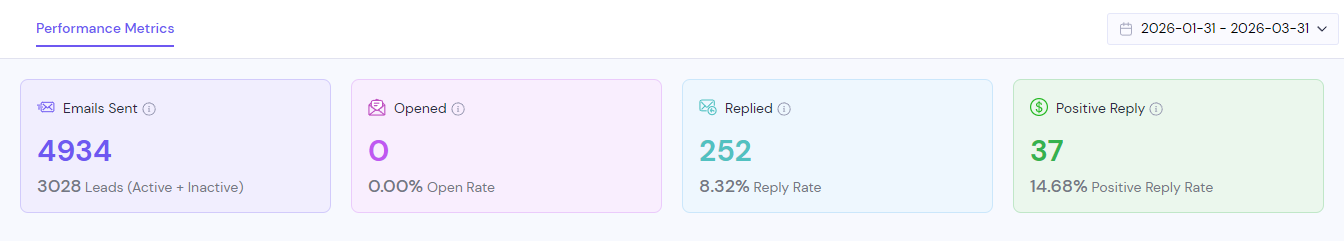
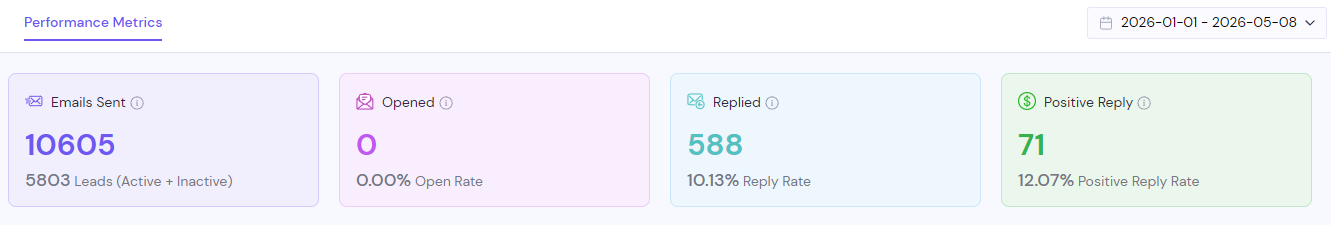
refactored copy

diff --git a/src/components/Advantage.jsx b/src/components/Advantage.jsx
@@ -29,7 +29,7 @@ const ProspectScorer = () => {
       <div className="flex items-center gap-2 mb-2">
         <span className="w-1.5 h-1.5 rounded-full bg-[#5b8dee] animate-pulse"></span>
         <span className="text-[10px] font-mono text-muted tracking-wider uppercase">
-          AI Scoring
+          Scoring
         </span>
       </div>
 
@@ -63,76 +63,52 @@ const ProspectScorer = () => {
   );
 };
 
-// Card 2 — Copywriting: typewriter with variable highlights
+// Card 2 — Copywriting: static copy, only variable slots cycle through real values
 const CopyTypewriter = () => {
-  const lines = [
-    { text: "Hey {first_name}, saw that {company} recently ", variable: false },
-    { text: "expanded into {market}", variable: true },
-    { text: " — we help teams like yours book", variable: false },
-    { text: " {value_prop}", variable: true },
-    { text: " consistently.", variable: false },
-  ];
-
-  const fullText =
-    "Hey {first_name}, saw that {company} recently expanded into {market} — we help teams like yours book {value_prop} consistently.";
-  const [displayed, setDisplayed] = useState("");
-  const [typing, setTyping] = useState(true);
+  const variables = {
+    first_name: ["Sarah", "James", "Lena", "Marcus"],
+    company: ["Notion", "Stripe", "Linear", "Vercel"],
+    trigger: ["hiring 3 AEs", "expanding to EU", "just raised Series B", "rebranding"],
+  };
+  const [idx, setIdx] = useState(0);
 
   useEffect(() => {
-    let timeout;
-    if (typing) {
-      if (displayed.length < fullText.length) {
-        timeout = setTimeout(
-          () => setDisplayed(fullText.slice(0, displayed.length + 1)),
-          35 + Math.random() * 30,
-        );
-      } else {
-        timeout = setTimeout(() => setTyping(false), 2500);
-      }
-    } else {
-      if (displayed.length > 0) {
-        timeout = setTimeout(() => setDisplayed(displayed.slice(0, -1)), 12);
-      } else {
-        setTyping(true);
-      }
-    }
-    return () => clearTimeout(timeout);
-  }, [displayed, typing]);
-
-  // Highlight variables in the displayed text
-  const renderHighlighted = () => {
-    const parts = displayed.split(/(\{[^}]+\})/g);
-    return parts.map((part, i) =>
-      /^\{[^}]+\}$/.test(part) ? (
-        <span key={i} className="text-[#5b8dee] bg-[#14349D]/20 rounded px-0.5">
-          {part}
-        </span>
-      ) : (
-        <span key={i}>{part}</span>
-      ),
+    const t = setInterval(
+      () => setIdx((p) => (p + 1) % variables.first_name.length),
+      2200,
     );
-  };
+    return () => clearInterval(t);
+  }, []);
+
+  const Var = ({ name }) => (
+    <span
+      key={`${name}-${idx}`}
+      className="text-[#5b8dee] bg-[#14349D]/20 rounded px-0.5 transition-all duration-300"
+    >
+      {variables[name][idx]}
+    </span>
+  );
 
   return (
     <div className="h-48 w-full bg-surface2 rounded-xl border border-borderLight p-5 flex flex-col overflow-hidden">
       <div className="flex items-center gap-2 mb-3">
-        <span className="w-1.5 h-1.5 rounded-full bg-foreground animate-pulse"></span>
+        <span className="w-1.5 h-1.5 rounded-full bg-[#5b8dee] animate-pulse"></span>
         <span className="text-[10px] font-mono text-muted tracking-wider uppercase">
           Live Copy
         </span>
       </div>
-      <p className="font-mono text-xs text-foreground leading-relaxed flex-1">
-        <span className="text-muted mr-1">›</span>
-        {renderHighlighted()}
-        <span className="inline-block w-1.5 h-3 bg-foreground ml-0.5 animate-pulse align-middle"></span>
+      <p className="text-xs text-foreground leading-relaxed flex-1">
+        Hey <Var name="first_name" />, noticed{" "}
+        <Var name="company" /> is{" "}
+        <Var name="trigger" /> — thought it might be a good time to chat about adding qualified meetings to the pipeline. Worth a quick call?
       </p>
-      <div className="flex gap-2 mt-3 flex-wrap">
-        {["{first_name}", "{company}", "{market}", "{value_prop}"].map((v) => (
+      <div className="flex gap-2 mt-3 flex-wrap border-t border-borderLight pt-3">
+        {["first_name", "company", "trigger"].map((v) => (
           <span
             key={v}
             className="text-[9px] font-mono px-1.5 py-0.5 rounded bg-[#14349D]/20 border border-[#14349D]/30 text-[#5b8dee]"
           >
-            {v}
+            {`{${v}}`}
           </span>
         ))}
       </div>
@@ -167,7 +143,9 @@ const DeliverabilityMonitor = () => {
             Delivery Monitor
           </span>
         </div>
-        <span className="text-[10px] font-mono text-green-400">98.4% inbox</span>
+        <span className="text-[10px] font-mono text-green-400">
+          98.4% inbox
+        </span>
       </div>
 
       <div className="flex-1 flex flex-col gap-2">
@@ -196,7 +174,9 @@ const DeliverabilityMonitor = () => {
         <span className="text-[10px] font-mono text-muted">
           10 domains · 100 inboxes
         </span>
-        <span className="text-[10px] font-mono text-[#5b8dee]">2,000 / day</span>
+        <span className="text-[10px] font-mono text-[#5b8dee]">
+          2,000 / day
+        </span>
       </div>
     </div>
   );
@@ -226,23 +206,23 @@ const Advantage = () => {
   const cards = [
     {
       icon: <Database size={20} className="text-foreground" />,
-      title: "List Building",
+      title: "Prospects That Fit",
       description:
-        "Our system scores every prospect based on your ideal customer profile and make sure they are the right fit before a single message is sent.",
+        "We score every prospect based on your ideal customer profile and make sure they are the right fit before a single message is sent.",
       widget: <ProspectScorer />,
     },
     {
       icon: <PenLine size={20} className="text-foreground" />,
-      title: "Copywriting",
+      title: "Copy That Feels Genuine",
       description:
-        "We use AI-filled variables in our copy that make the messaging feel personal and natural, while keeping the core components static so we can test, iterate, and improve results over time.",
+        "We write copy that feels genuine and not like an advertisement. Every Message is deeply personalized with dynamic variables that are proven to increase response rates.",
       widget: <CopyTypewriter />,
     },
     {
       icon: <Server size={20} className="text-foreground" />,
-      title: "Infrastructure that Scales",
+      title: "Infrastructure That Scales",
       description:
-        "Our infrastructure is designed to handle high volumes of messages that consistently land in the main inbox so you can scale your outreach without compromising performance.",
+        "Our infrastructure is designed so that messages consistently land in main inboxes where they actually get seen. Your domain and inboxes remain untouched.",
       widget: <DeliverabilityMonitor />,
     },
   ];
@@ -257,7 +237,7 @@ const Advantage = () => {
         <div className="mb-16 md:mb-24 flex flex-col md:flex-row md:items-end justify-between gap-8">
           <div className="max-w-xl">
             <h2 className="text-4xl md:text-6xl font-medium tracking-normal text-foreground font-sans mb-4 leading-tight pb-2">
-              Our Advantage
+              Why It Works
             </h2>
           </div>
           <p className="text-lg text-muted max-w-md font-medium">

diff --git a/src/pages/Datenschutz.jsx b/src/pages/Datenschutz.jsx
@@ -27,18 +27,16 @@ const Datenschutz = () => {
           </p>
 
           <p>
-            Scalar AI respects your privacy and is committed to protecting your
-            personal data. This privacy policy explains what types of information
-            we collect, how we use it, and what rights you have regarding your
-            data.
+            Scalar respects your privacy and is committed to protecting your
+            personal data. This privacy policy explains what types of
+            information we collect, how we use it, and what rights you have
+            regarding your data.
           </p>
 
           <h3 className="text-2xl font-medium text-white mt-12 mb-4">
             1. Collection of Information
           </h3>
-          <p>
-            We may collect various types of information, including:
-          </p>
+          <p>We may collect various types of information, including:</p>
           <ul className="list-disc pl-6 space-y-2 mt-4">
             <li>
               <strong>Personal data:</strong> For example, name, email address,
@@ -73,9 +71,7 @@ const Datenschutz = () => {
             <li>
               Communicating with you, directly or through authorized partners
             </li>
-            <li>
-              Processing transactions and sending related information
-            </li>
+            <li>Processing transactions and sending related information</li>
             <li>Fulfilling legal obligations</li>
           </ul>
 
@@ -184,7 +180,8 @@ const Datenschutz = () => {
             11. Contact
           </h3>
           <p className="mb-4">
-            If you have questions about this privacy policy, you can reach us at:
+            If you have questions about this privacy policy, you can reach us
+            at:
           </p>
           <div className="text-white/70">
             <p className="mb-1">Henrik Freisleben</p>

diff --git a/src/components/Footer.jsx b/src/components/Footer.jsx
@@ -113,9 +113,9 @@ const Footer = () => {
         <div className="relative overflow-hidden rounded-[3rem] p-12 md:p-24 mb-20 border border-white/10 flex flex-col items-center text-center gap-8 bg-white/5 backdrop-blur-2xl shadow-2xl">
           <div className="relative z-10 flex flex-col items-center">
             <h2 className="text-4xl md:text-6xl font-medium tracking-normal mb-4 font-sans text-white pb-2">
-              10+ qualified sales calls.
+              10+ qualified meetings consistently.
               <br />
-              <span className="text-white/60">In the next 60 days.</span>
+              <span className="text-white/60">Pay after they show up.</span>
             </h2>
             <p className="text-white/70 text-lg md:text-xl font-medium max-w-lg">
               Two weeks of warmup. Then interested replies start coming in.
@@ -148,7 +148,7 @@ const Footer = () => {
                 className="h-10 brightness-0 invert"
               />
               <span className="text-xl font-medium tracking-tight font-sans text-white">
-                Scalar AI
+                Scalar
               </span>
             </div>
             <p className="text-white/40 text-sm font-medium">
@@ -172,7 +172,7 @@ const Footer = () => {
                 Privacy Policy
               </Link>
             </div>
-            <p>&copy; {new Date().getFullYear()} Scalar AI.</p>
+            <p>&copy; {new Date().getFullYear()} Scalar.</p>
           </div>
         </div>
       </div>

diff --git a/src/components/Header.jsx b/src/components/Header.jsx
@@ -123,7 +123,7 @@ export const Navbar = () => {
               <span
                 className={`text-xl md:text-[1.35rem] font-regular tracking-tight font-sans transition-colors duration-300 text-white`}
               >
-                Scalar AI
+                Scalar
               </span>
             </a>
 
@@ -310,14 +310,14 @@ export const Hero = () => {
       <div className="relative z-10 w-full max-w-5xl mx-auto flex flex-col items-center gap-6">
         {/* Headline near top */}
         <h1 className="pt-10 hero-element text-4xl sm:text-5xl md:text-6xl lg:text-[4.75rem] font-regular tracking-wide leading-[1.05] text-white">
-          Book 10+ Qualified Sales Meetings In The Next 60 Days
+          Book 10+ Qualified Meetings Per Month - Don't Pay Until They Show Up
         </h1>
 
         {/* Sub-headline */}
         <p className="hero-element text-lg md:text-xl text-white/70 max-w-2xl leading-relaxed">
-          We build and deploy a cold outreach engine for your business that
-          consistently generates meetings with your ideal prospects - you only
-          pay for calls that show up.
+          We send deeply personalized outbound messages to prospects matching
+          your ideal customer profile - and we only charge for the meetings that
+          actually show up.
         </p>
 
         {/* Wistia Video */}

diff --git a/src/components/Offer.jsx b/src/components/Offer.jsx
@@ -7,10 +7,11 @@ import { MagneticButton } from "./Header";
 gsap.registerPlugin(ScrollTrigger);
 
 const deliverables = [
-  "Full infrastructure setup (10 domains, 100 inboxes, fully configured and ready to send)",
-  "2,000 personalized messages sent per day",
-  "20,000 double-verified, AI-scored leads",
-  "5+ messaging angles tested",
+  "Full sending infrastructure setup (20 domains, 100 inboxes), ready to send",
+  "5 hand-crafted email copy sequences tailored to your offer & ICP",
+  "List of 12,000 email-verified leads matching your ICP",
+  "12,000 leads reached with deeply personalized messages",
+  "5 messaging angles tested (real data on how to position your offer)",
 ];
 
 const Offer = () => {
@@ -47,8 +48,8 @@ const Offer = () => {
             60-Day Pilot
           </h2>
           <p className="offer-element text-lg text-muted max-w-md font-medium">
-            Everything you need to generate consistent, qualified sales meetings
-            — done for you.
+            Get started with a 60-day pilot program to see how we can fill your
+            calendar with qualified meetings.
           </p>
         </div>
 

diff --git a/index.html b/index.html
@@ -28,10 +28,22 @@
       rel="stylesheet"
     />
     <meta name="viewport" content="width=device-width, initial-scale=1.0" />
-    <title>Scalar AI</title>
+    <title>Scalar</title>
     <script src="https://fast.wistia.com/player.js" async></script>
-    <script src="https://fast.wistia.com/embed/0hefil3c8d.js" async type="module"></script>
-    <style>wistia-player[media-id='0hefil3c8d']:not(:defined) { background: center / contain no-repeat url('https://fast.wistia.com/embed/medias/0hefil3c8d/swatch'); display: block; filter: blur(5px); padding-top:56.25%; }</style>
+    <script
+      src="https://fast.wistia.com/embed/0hefil3c8d.js"
+      async
+      type="module"
+    ></script>
+    <style>
+      wistia-player[media-id="0hefil3c8d"]:not(:defined) {
+        background: center / contain no-repeat
+          url("https://fast.wistia.com/embed/medias/0hefil3c8d/swatch");
+        display: block;
+        filter: blur(5px);
+        padding-top: 56.25%;
+      }
+    </style>
   </head>
 
   <body>

diff --git a/src/components/Features.jsx b/src/components/Features.jsx
@@ -167,7 +167,9 @@ const ChartAnimation = () => {
       </div>
 
       <div className="flex justify-between items-center mt-2 border-t border-borderLight pt-2">
-        <div className="text-[10px] font-mono text-muted">REVENUE POTENTIAL</div>
+        <div className="text-[10px] font-mono text-muted">
+          REVENUE POTENTIAL
+        </div>
         <div className="text-[10px] font-mono font-bold text-foreground">
           +340%
         </div>
@@ -199,7 +201,7 @@ const Features = () => {
             </h2>
           </div>
           <p className="text-lg text-muted max-w-md font-medium">
-            Scalar AI builds AI-driven systems that generate leads, convert
+            Scalar builds AI-driven systems that generate leads, convert
             inquiries into customers, and scale processes for B2B companies.
           </p>
         </div>

diff --git a/src/components/CampaignResults.jsx b/src/components/CampaignResults.jsx
@@ -17,7 +17,7 @@ const ResultCard = ({ chip, title }) => (
 
     <div
       className="w-full rounded-[1.25rem] overflow-hidden border border-borderLight"
-      style={{ aspectRatio: "1344 / 241" }}
+      style={{ aspectRatio: "1344 / 235" }}
     >
       <img
         src={`${import.meta.env.BASE_URL}campaign_result1.png`}
@@ -50,7 +50,11 @@ const CampaignResults = () => {
   }, []);
 
   return (
-    <section id="results" ref={sectionRef} className="w-full bg-background py-24 px-6">
+    <section
+      id="results"
+      ref={sectionRef}
+      className="w-full bg-background py-24 px-6"
+    >
       <div className="max-w-6xl mx-auto">
         <div className="mb-16 flex flex-col md:flex-row md:items-end justify-between gap-8">
           <div className="max-w-xl">

diff --git a/src/components/Testimonials.jsx b/src/components/Testimonials.jsx
@@ -38,7 +38,7 @@ const Testimonials = () => {
             </h2>
           </div>
           <p className="text-lg text-muted max-w-md font-medium">
-            A few words from satisfied clients already working with our systems.
+            A few words from satisfied clients already working with us.
           </p>
         </div>
 
